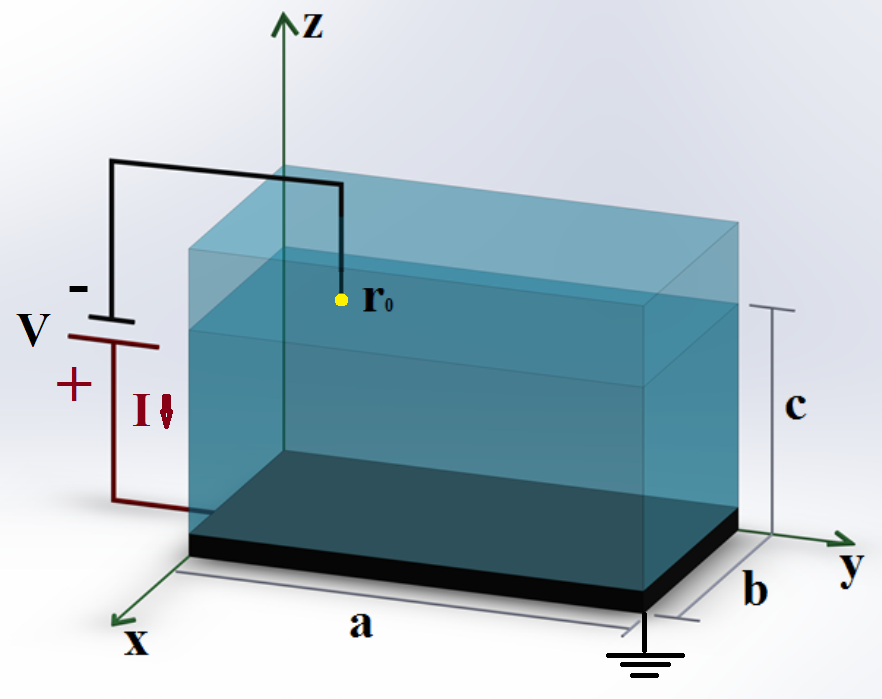
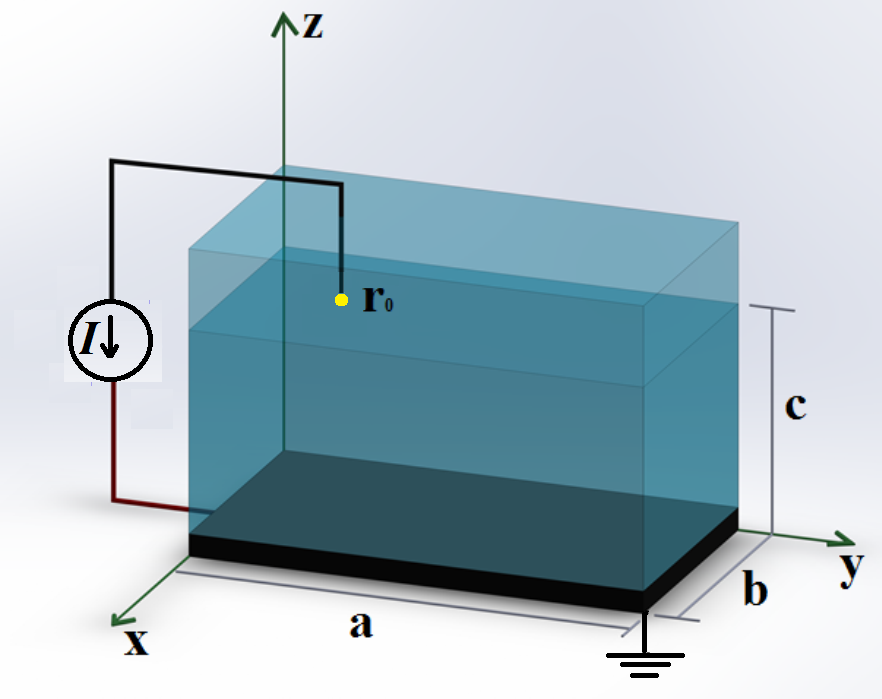
Modifice el paper.tex y añadi la grafica celda1.png

Changed region(s): [[0.0, 0.4206, 0.1837, 0.5708], [0.1531, 0.5708, 0.2143, 0.6309], [0.0612, 0.3906, 0.0918, 0.4206]]

diff --git a/paper.tex b/paper.tex
@@ -173,7 +173,7 @@ point current source.
       revista.}}\notaL{\sout{En la punta pusiste dos esferas. Quítalas y sólo
     pon un puntito dorado del ancho del cable. Muestra que la base
     está aterrizada}}\notaL{\sout{Indica el voltaje y la
-    corriente}}\notaL{\sout{¿Está bien la polaridad de la batería?}}}
+    corriente}}\notaL{\sout{¿Está bien la polaridad de la batería?}}
     just the tip uncovered and located at $\bm r_0=(x_0,y_0,z_0)$ within the
     liquid.\notaL{Quité el tipo de letra del pie de figura. Que la pongan en la
       revista.}\notaL{En la punta pusiste dos esferas. Quítalas y sólo
@@ -852,12 +852,8 @@ for each of the chosen currents.
             measurement point. Therefore,  $d_i$ is the total
             thickness calculated for each of the measurements,
             defining a i = $ A, B, C$. Having the following
-            relationship $d_{_{i}} =
-            (N_{_{Hi}}d_{_{Hi}})+(N_{_{Li}}d_{_{Li}}) +
-            (2d_{_{Hi}})$. }
-            relationship $d_i =
-            (N_{Hi}d_{Hi})+(N_{Li}d_{Li}) +
-            (2d_{Hi})$. }}
+            relationship $d_i =(N_{Hi}d_{Hi})+(N_{Li}d_{Li}) +
+            (2d_{Hi})$. }
 	\label{fig:MCGRIN0}
 \end{figure}
 The Fig. \ref{fig:MCGRIN0} the scheme of  a initially proposed lateral
